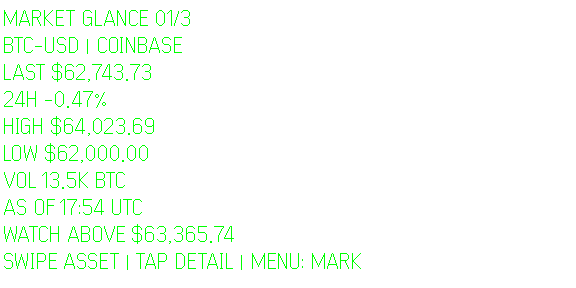
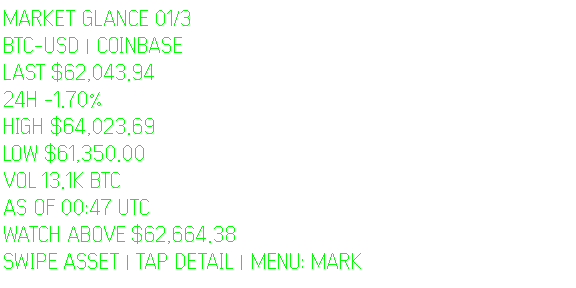
Document simulator QA and prepared package

diff --git a/README.md b/README.md
@@ -6,9 +6,11 @@ Market Glance is a calm, glanceable Coinbase market brief for Even G2. Swipe bet
 
 ## Simulator proof
 
-The official Even Hub simulator screenshot below shows a live quote and the +1% marker restored after a full process restart, with no simulator warnings or errors. `evidence/g2-final-watch.png` is the raw RGBA framebuffer; its preview composites the lit-pixel alpha against a dark background for readability.
+The screenshot below was captured from the production `dist` served at its root URL in the official Even Hub simulator v0.9.5. It shows a live BTC quote and a +1% marker set through the glasses contextual menu; after stopping and restarting the simulator process, the marker and quote were restored. Swipe BTC→ETH, tap for details, **Clear mark**, menu selection events and live quote refresh were also exercised.
 
 ![Market Glance with a restored local price marker on the Even G2 simulator](evidence/g2-final-watch-preview.png)
+
+`evidence/g2-final-watch.png` is the raw RGBA framebuffer; its preview composites lit-pixel alpha against a dark background. The simulator does not render the system exit-confirmation dialog: the official [Beta Testing guide](https://hub.evenrealities.com/docs/test/beta-testing) says it appears only on a real install. The root-page handler receives double-click event 3 and calls `shutDownPageContainer(1)`, but that dialog still needs validation on a real install. A first BTC request during the simulator run returned 502; a later live refresh recovered. Serving the raw `.ehpk` as a static octet-stream URL did not render in the simulator, so simulator verification used the production build output that was packaged.
 
 ## Important timing note
 
@@ -33,9 +35,13 @@ Keep the Vite dev server running, then start the official simulator in a second 
 npx --yes @evenrealities/evenhub-simulator@0.9.5 http://localhost:5173 --automation-port 9898
 ```
 
-On G2/R1, swipe up/down to move through the watchlist and tap once for details. Open the Even OS contextual menu to choose **Mark +1%**, **Mark -1%** or **Clear mark**. The menu selection is handled by `menuItemClickEvent`; the value is saved via Even Hub local storage. Simulator automation can open that menu with `POST /api/input` and `{"action":"context_menu"}`, then move/select with `up`/`down` and `click`. A double tap invokes the system-confirmed root-page exit. In a regular browser, use the matching buttons; arrow keys and Enter demonstrate navigation without hardware.
+On G2/R1, swipe up/down to move through the watchlist and tap once for details. Open the Even OS contextual menu to choose **Mark +1%**, **Mark -1%** or **Clear mark**. The menu selection is handled by `menuItemClickEvent`; the value is saved via Even Hub local storage. Simulator automation can open that menu with `POST /api/input` and `{"action":"context_menu"}`, then move/select with `up`/`down` and `click`. A double tap calls `shutDownPageContainer(1)` on the root page; verify the system confirmation on a real install because the simulator does not render that dialog. In a regular browser, use the matching buttons; arrow keys and Enter demonstrate navigation without hardware.
 
-Custom contextual menus require Even App 2.2.9 or newer. The project pins Even Hub SDK 0.0.16 and the simulator 0.9.5.
+Custom contextual menus require Even App 2.2.9 or newer. The project pins Even Hub SDK 0.0.16; the official packer stamps a minimum Even App version of 2.2.10 for that SDK. The simulator version used was 0.9.5.
+
+## Local .ehpk package
+
+The official Even Hub CLI v0.2.0 built `Market-Glance-0.1.0.ehpk` (45,380 bytes) from `app.json` and `dist`; it stamped `min_app_version` 2.2.10 and the artifact checksum was verified. The binary package is kept out of this source repository. It has not been uploaded to Even Hub, installed as a beta/private build, or submitted to DoraHacks. Simulator checks exercised the same production `dist` included in the package; CORS and Even App permission enforcement still need an installed-build check.
 
 ## Local marker behavior and safety
 
@@ -47,7 +53,7 @@ The app checks the marker only after fresh market data arrives while the page is
 
 - Source: [Coinbase Exchange Get product stats](https://docs.cdp.coinbase.com/exchange/reference/exchangerestapi_getproductstats), public `GET /products/{product_id}/stats`. The app computes 24-hour change as `(last - open) / open × 100`; volume is in the base asset.
 - Coinbase is the only external market-data provider, and the app has no Coinbase credentials. The local Node middleware or the deployed Worker—not the Even Hub web app—calls Coinbase.
-- The read-only Cloudflare Worker is available at `https://market-glance-api.pikrimahardhika.workers.dev`; its health endpoint is `/api/health`. `app.json` whitelists this origin, and `.env.production` supplies it to production builds. Local Vite development continues to use the same-origin middleware unless explicitly overridden. The Worker allows only BTC-USD, ETH-USD and SOL-USD; it has a brief per-isolate cache and supports stale fallback when available. Cloudflare Workers Free limits apply. The local middleware is not bundled into an installed app. No `.ehpk` has been packaged, and packaged-app CORS/whitelist behavior still needs testing on the simulator and G2.
+- The read-only Cloudflare Worker is available at `https://market-glance-api.pikrimahardhika.workers.dev`; its health endpoint is `/api/health`. `app.json` whitelists this origin, and `.env.production` supplies it to production builds. Local Vite development continues to use the same-origin middleware unless explicitly overridden. The Worker allows only BTC-USD, ETH-USD and SOL-USD; it has a brief per-isolate cache and supports stale fallback when available. Cloudflare Workers Free limits apply. The local middleware is not bundled into an installed app. The packaged build's CORS and Even App whitelist enforcement still require an installed-build check.
 - `.env*` files are ignored except `.env.example` and the public `.env.production`; commit no secrets or production credentials. Vite embeds `VITE_` variables in the client bundle.
 
 ## Test and build
@@ -63,7 +69,7 @@ Tests cover market parsing/change calculation, display formatting/range behavior
 
 ## Before any hackathon submission
 
-After the build window opens, continue/rebuild during the event and accurately disclose pre-existing work; run the simulator journey and validate on G2 if available; test the packaged app's CORS/whitelist against the HTTPS backend; prepare setup notes, a demo video up to 3 minutes, and the short problem/user/how-it-works/track description; list up to five API feature requests if any are discovered; then submit through DoraHacks before the deadline. The repository and backend exist, but the project has not been submitted.
+After the build window opens, continue/rebuild during the event and accurately disclose pre-existing work. Install and test this exact package as a beta/private build, including live API/CORS and permission behavior, a five-minute locked-phone run, and the root-page exit dialog on real G2 hardware if available. Prepare setup notes, a demo video up to 3 minutes, the short problem/user/how-it-works/track description, and up to five API feature requests if any are discovered. Submit through DoraHacks only after the event-compliant result has been reviewed and the user explicitly approves; no submission has been made.
 
 ## Official references
 
